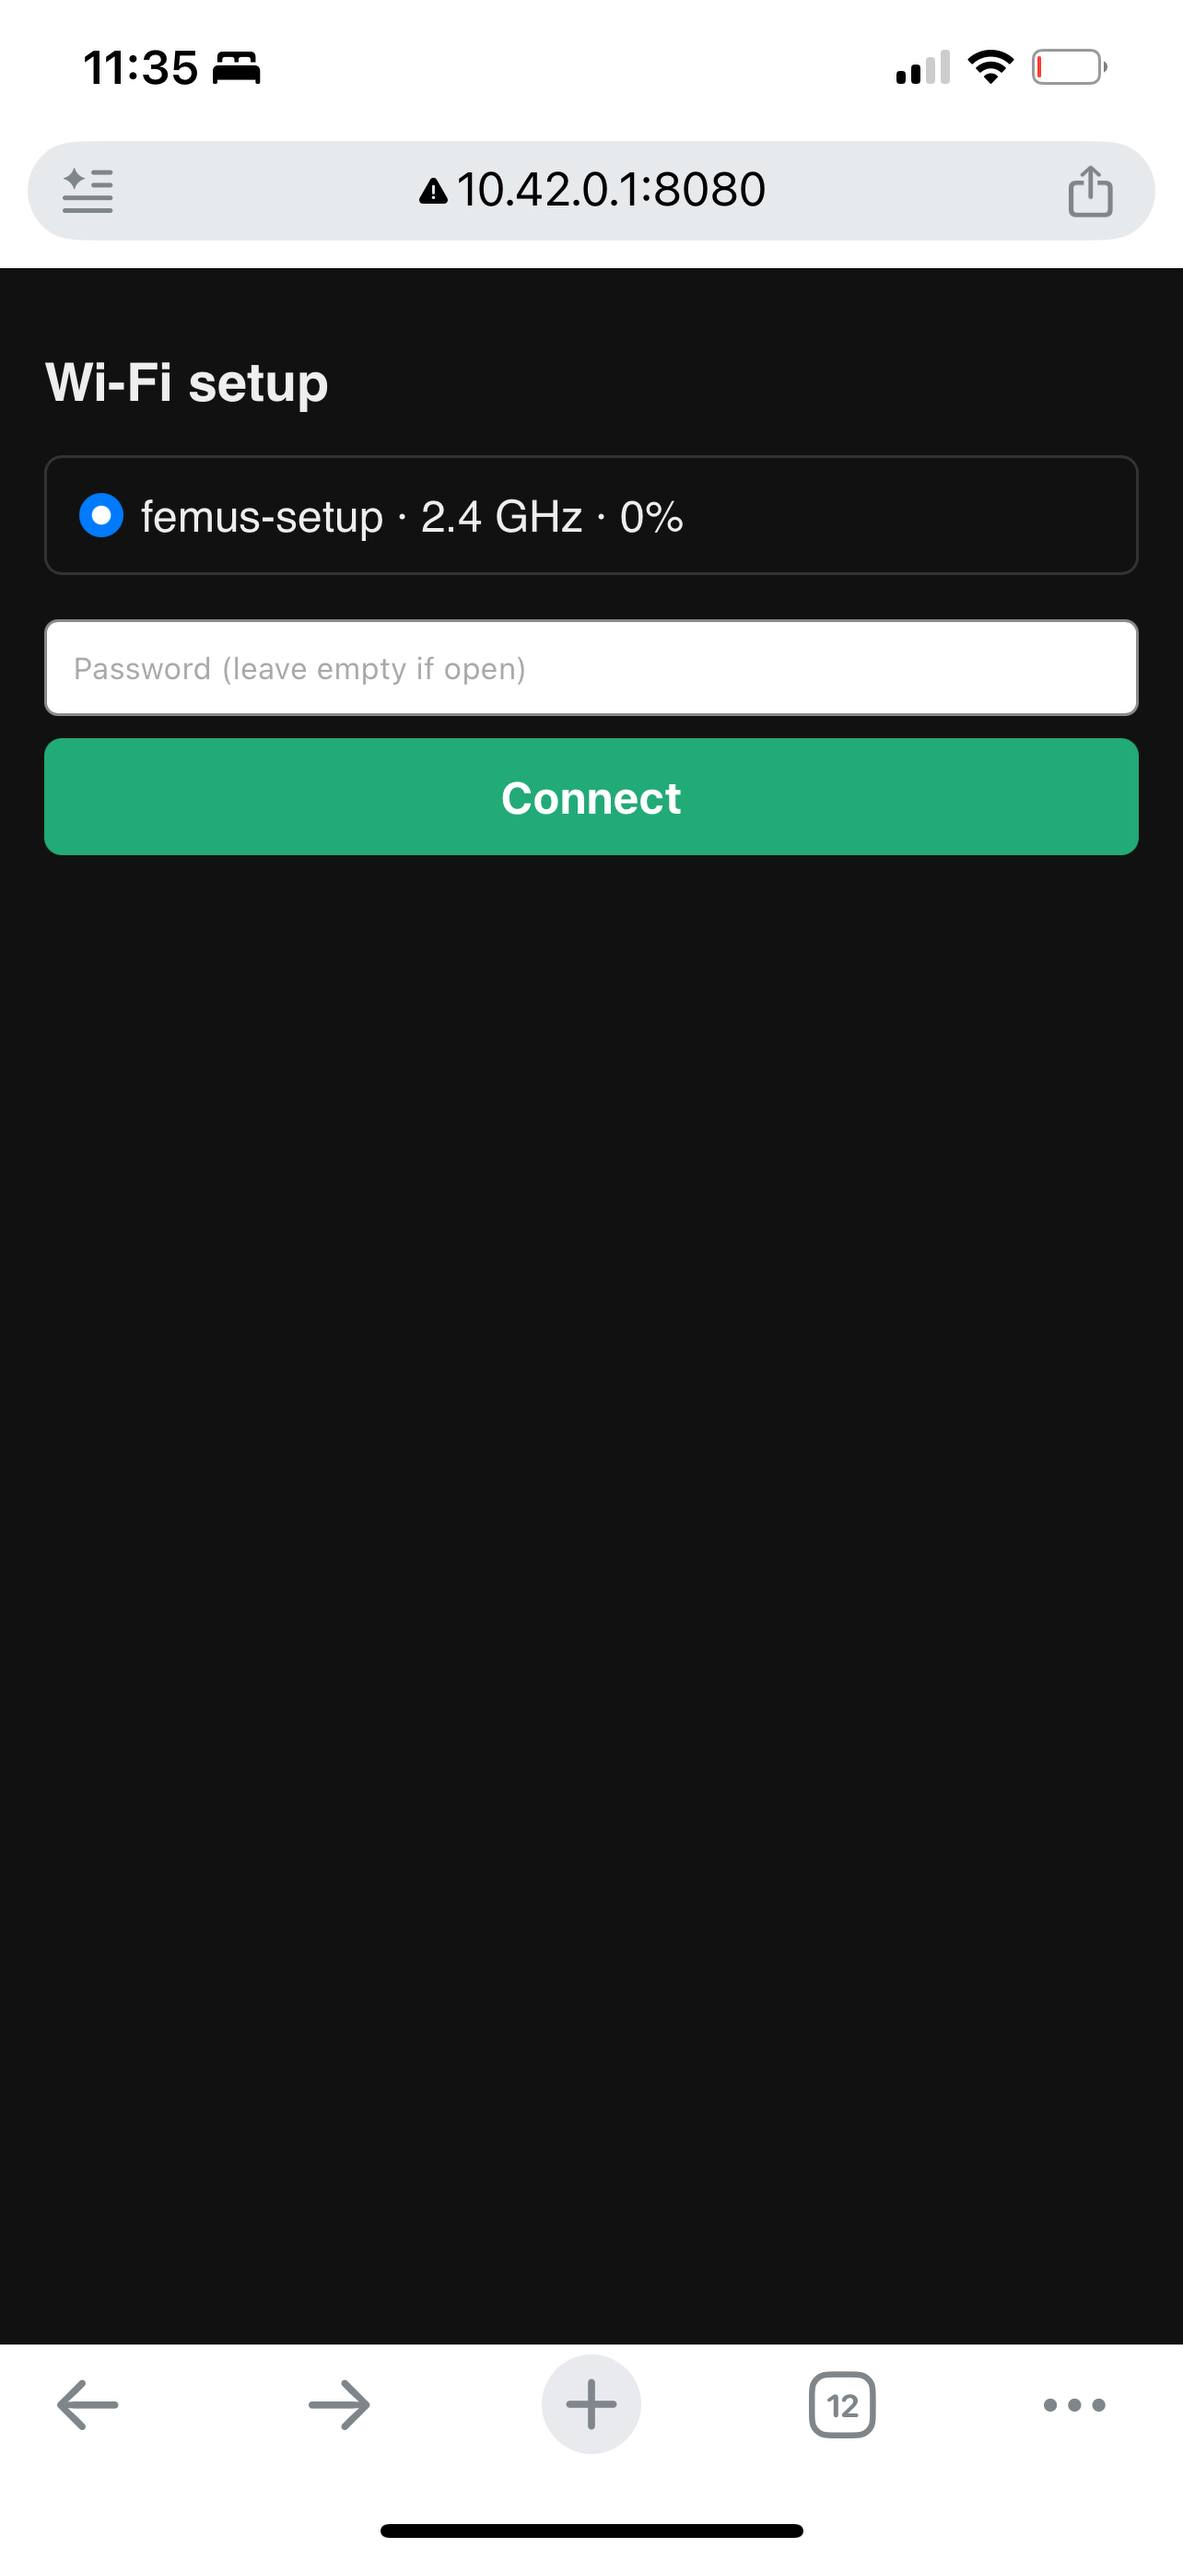
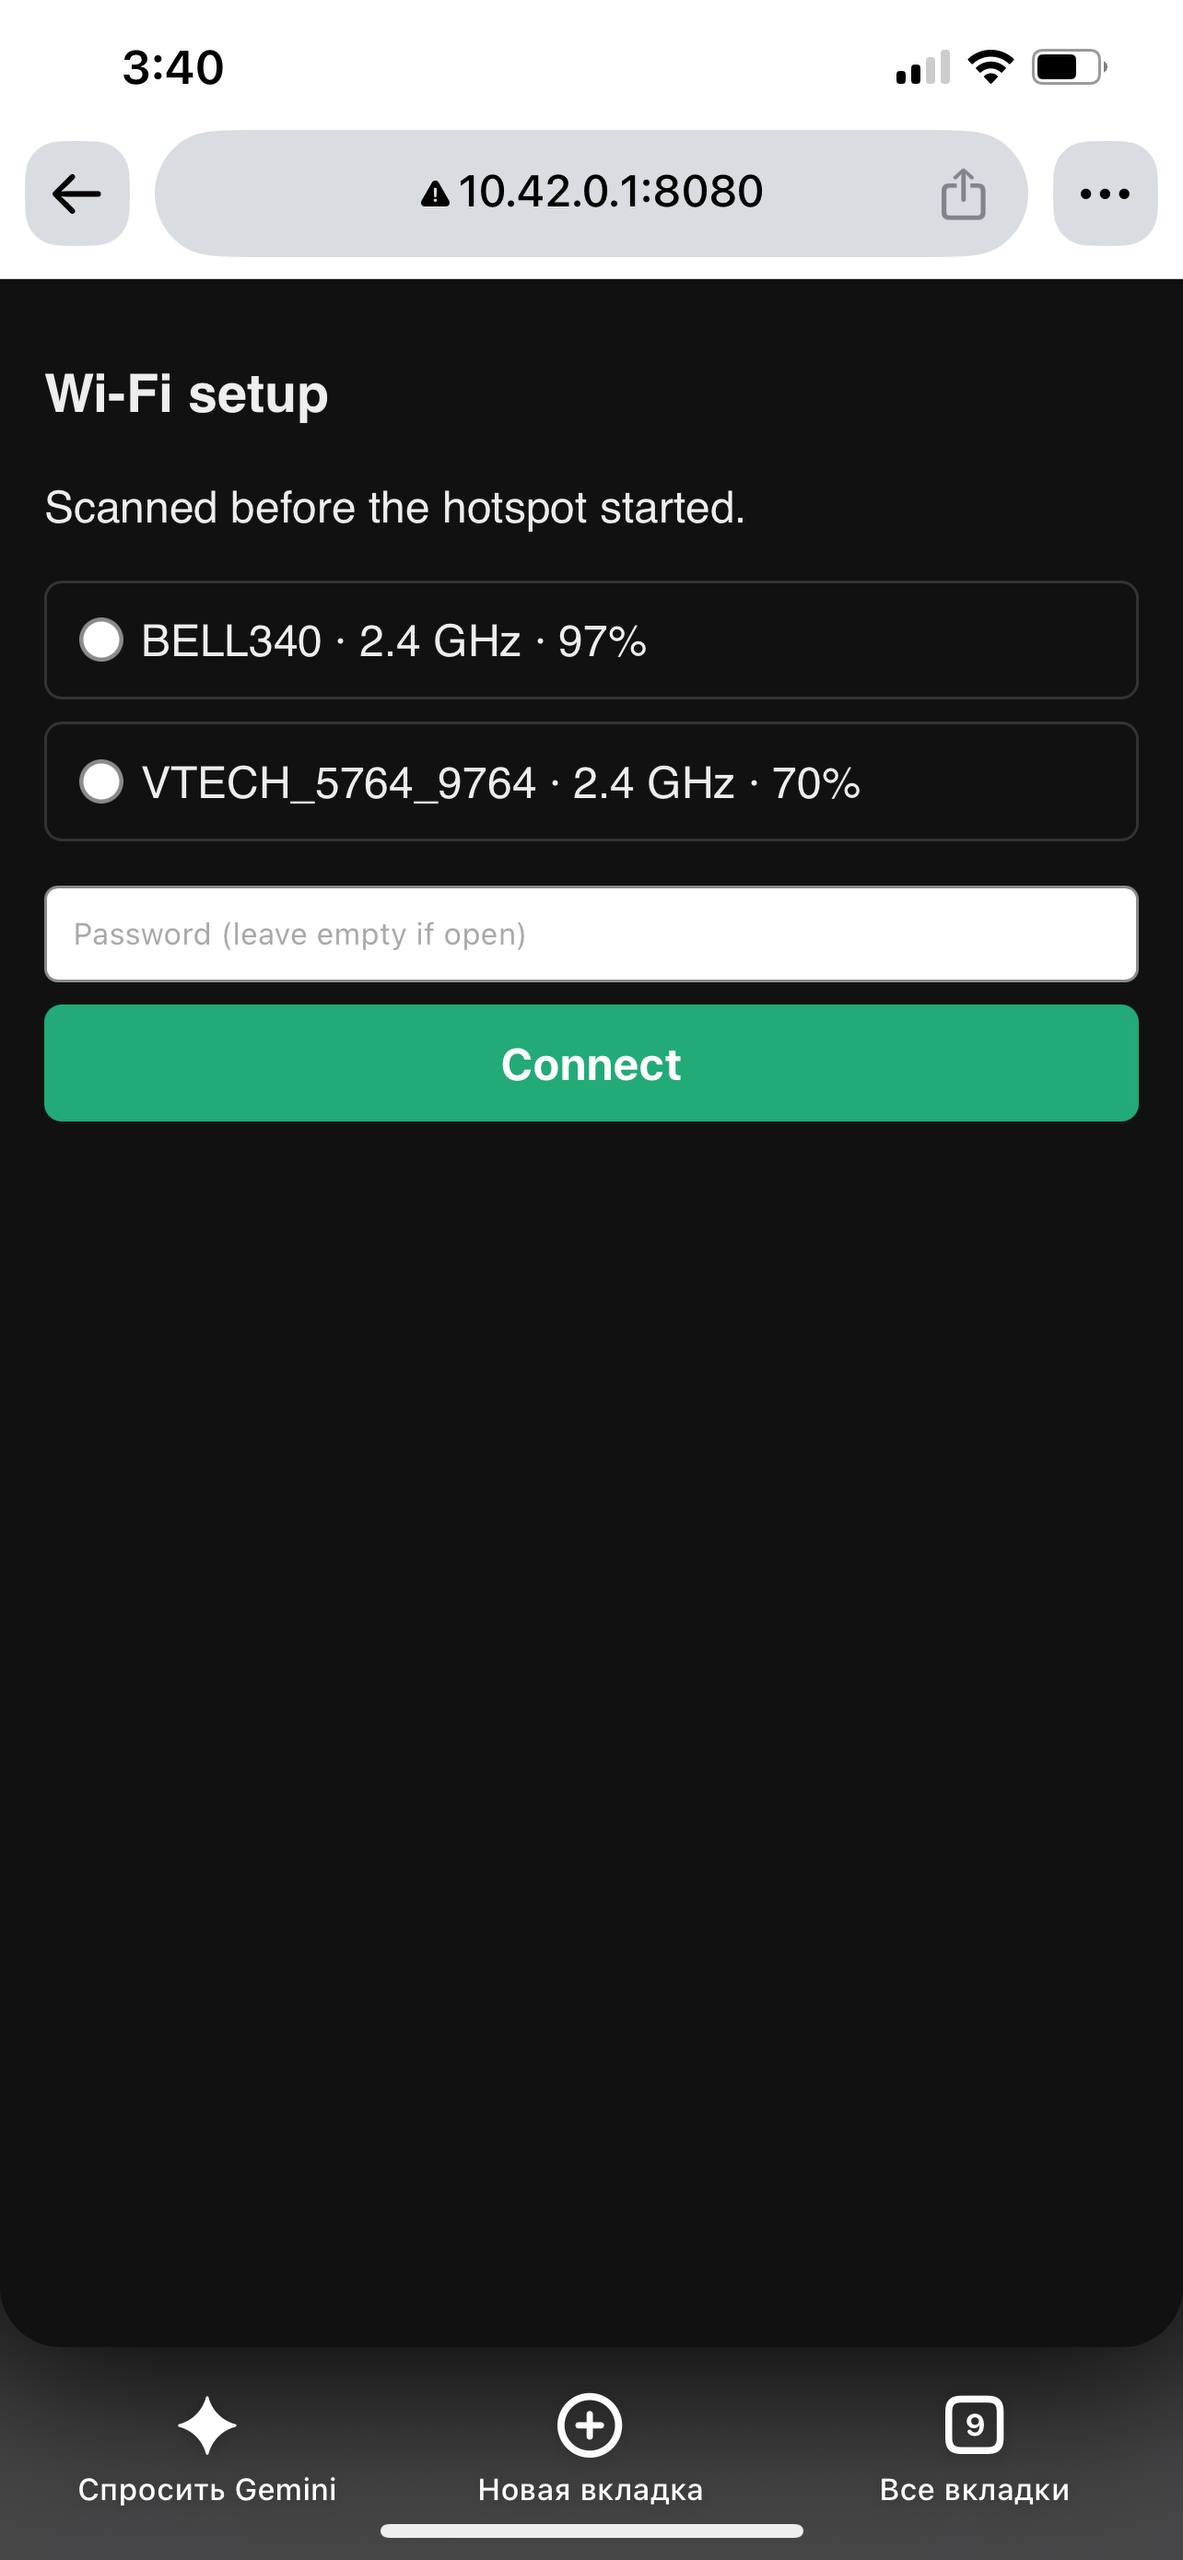
docs: live verification of 3.1.0 on raspberry pi

Changed region(s): [[0.0, 0.0, 1.0, 0.4375], [0.0, 0.9062, 1.0, 1.0], [0.8825, 0.0, 0.9129, 0.0312]]

diff --git a/docs/verified-on.md b/docs/verified-on.md
@@ -199,3 +199,127 @@ profile `connect` had created, leaving the Pi exactly as found.
 - macOS `connect()`/`disconnect()` on real hardware: fixture-only; `scan()` and
   `device()` were run on macOS 26.5 (SSIDs redacted, as documented).
 - Hotspot on the 5 GHz band (`--band=5`): the Pi's radio was left on 2.4 GHz.
+
+---
+
+# Verified on real hardware — 3.1.0
+
+Same Raspberry Pi, **2026-09-11**, against the `3.1.0` branch at `f124fdf`
+(plus this file). Same board, OS, NetworkManager 1.52.1 and PHP 8.4.24 as the
+3.0.0 run above; the suite on the Pi: `OK (239 tests, 564 assertions)`. The
+radio was `disabled` before and after, and every profile created during the run
+was removed.
+
+## What 3.1 changes, seen on the device
+
+`known` now separates the connection name from the real SSID — the whole point
+of the N+1 lookup. With a hotspot profile saved:
+
+```
+$ php bin/wifi known
+ Name     SSID         Device  Active
+--------------------------------------
+ Hotspot  femus-setup  wlan0   true
+```
+
+In 3.0.0 both columns read `Hotspot`.
+
+`list --json` parses and carries every documented key:
+
+```
+$ php bin/wifi list --unique --json | python3 -c 'import json,sys; d=json.load(sys.stdin); print(len(d),"objects; keys:",",".join(d[0].keys()))'
+3 objects; keys: ssid,hidden,bssid,channel,band,frequency,quality,dbm,security,securityFlags,connected
+```
+
+The hidden-SSID hint is now OS-aware (3.0.0 blamed macOS on a Linux box):
+
+```
+1 network(s) broadcast no SSID (hidden); they are shown as "-".
+```
+
+## The passphrase and `ps` — measured, not assumed
+
+`connect` was run with the passphrase on a pipe
+(`printf '%s' "$(cat ~/.wifi-pass)" | sudo php bin/wifi connect --ssid=BELL340 --password-file=-`)
+while a loop sampled `ps` for the passphrase:
+
+```
+ps sample 1: wifi-argv-with-password=0 nmcli-argv-with-password=0
+ps sample 2: wifi-argv-with-password=0 nmcli-argv-with-password=2
+ps sample 3: wifi-argv-with-password=0 nmcli-argv-with-password=2
+Connected to BELL340 via wlan0 (auto)
+```
+
+That is exactly what the README claims and no more: the passphrase never
+appears in the `wifi` process's own arguments, and it *does* appear in
+`nmcli`'s (twice — the `sh -c` wrapper and `nmcli` itself) for the duration of
+the call. Closing that window is a 3.2 candidate.
+
+`disconnect` and `forget` then confirmed themselves on stdout (`Disconnected
+via wlan0 (auto)`, `Forgot BELL340.`), which 3.0.0 did silently.
+
+## Provisioning, end to end
+
+Run as a transient systemd unit, the way `provision.service` runs it. The page
+served the networks scanned **before** the hotspot came up — the fix this
+release exists for:
+
+> Scanned before the hotspot started.
+> BELL340 · 2.4 GHz · 97%
+> VTECH_5764_9764 · 2.4 GHz · 70%
+
+[`examples/provision/screenshot.jpg`](../examples/provision/screenshot.jpg) is
+that page on a phone joined to `femus-setup`. In 3.0.0 the same page could only
+ever list the hotspot itself.
+
+Submitting the form with the correct passphrase:
+
+```
+t0    hotspot=active   marker=no
+t+5s  unit=inactive hotspot=inactive wlan0=connected:BELL340 marker=yes
+...
+$ php bin/wifi list --connected
+ SSID     BSSID              Channel  Band  Quality  dBm  Frequency  Connected  Security
+-----------------------------------------------------------------------------------------
+ BELL340  0e:ac:8a:99:58:5d  157      5     62%      -69  5785       true       WPA2
+```
+
+The page stopped the hotspot, joined, wrote the marker; the supervisor saw the
+marker, stopped the web server and the hotspot and exited — no timeout, no
+manual step.
+
+## Two things the live run found and 3.1 fixes
+
+Both were discovered here, not in review, and neither is reproducible from
+fixtures:
+
+1. **A mistyped passphrase used to end the session.** NetworkManager takes the
+   access point down to attempt a join and does not put it back; the page
+   became unreachable and the unit waited out its whole timeout.
+   NetworkManager's own journal for that attempt:
+   `4way_handshake -> disconnected`, `no secrets`,
+   `Activation: failed for connection 'BELL340'`. `hotspot.sh` now notices the
+   access point is gone without a marker and restarts it — verified by taking
+   the AP down by hand mid-run:
+
+   ```
+   t+0   hotspot=inactive
+   t+4s  hotspot=active wlan0=connected page=200
+   ```
+
+2. **The page could not join at all while holding the radio.** With the access
+   point up, NetworkManager's scan list is empty, so `nmcli` refused:
+   `exited with 10: Error: No network with SSID 'BELL340' found.` — even though
+   the page listed that network, because the page's list comes from the cached
+   pre-scan. The page now stops the hotspot before joining. Consequence worth
+   knowing: the phone always loses the page at that moment; with one radio
+   there is no way around it.
+
+## Not verified
+
+- Windows (`NetshBackend`, `ProfileFile`) — fixture-only, no machine.
+- macOS `connect()`/`disconnect()` on real hardware. The macOS false-success
+  fix in this release (`networksetup` exits 0 on failure) *was* confirmed on a
+  real Mac: `Could not find network NoSuchNetXYZ.` and `Failed to join network
+  BELL340.` / `Error: -3912` both come back with exit code 0.
+- The `--password-file=-` tty guard (no tty in the harness).
